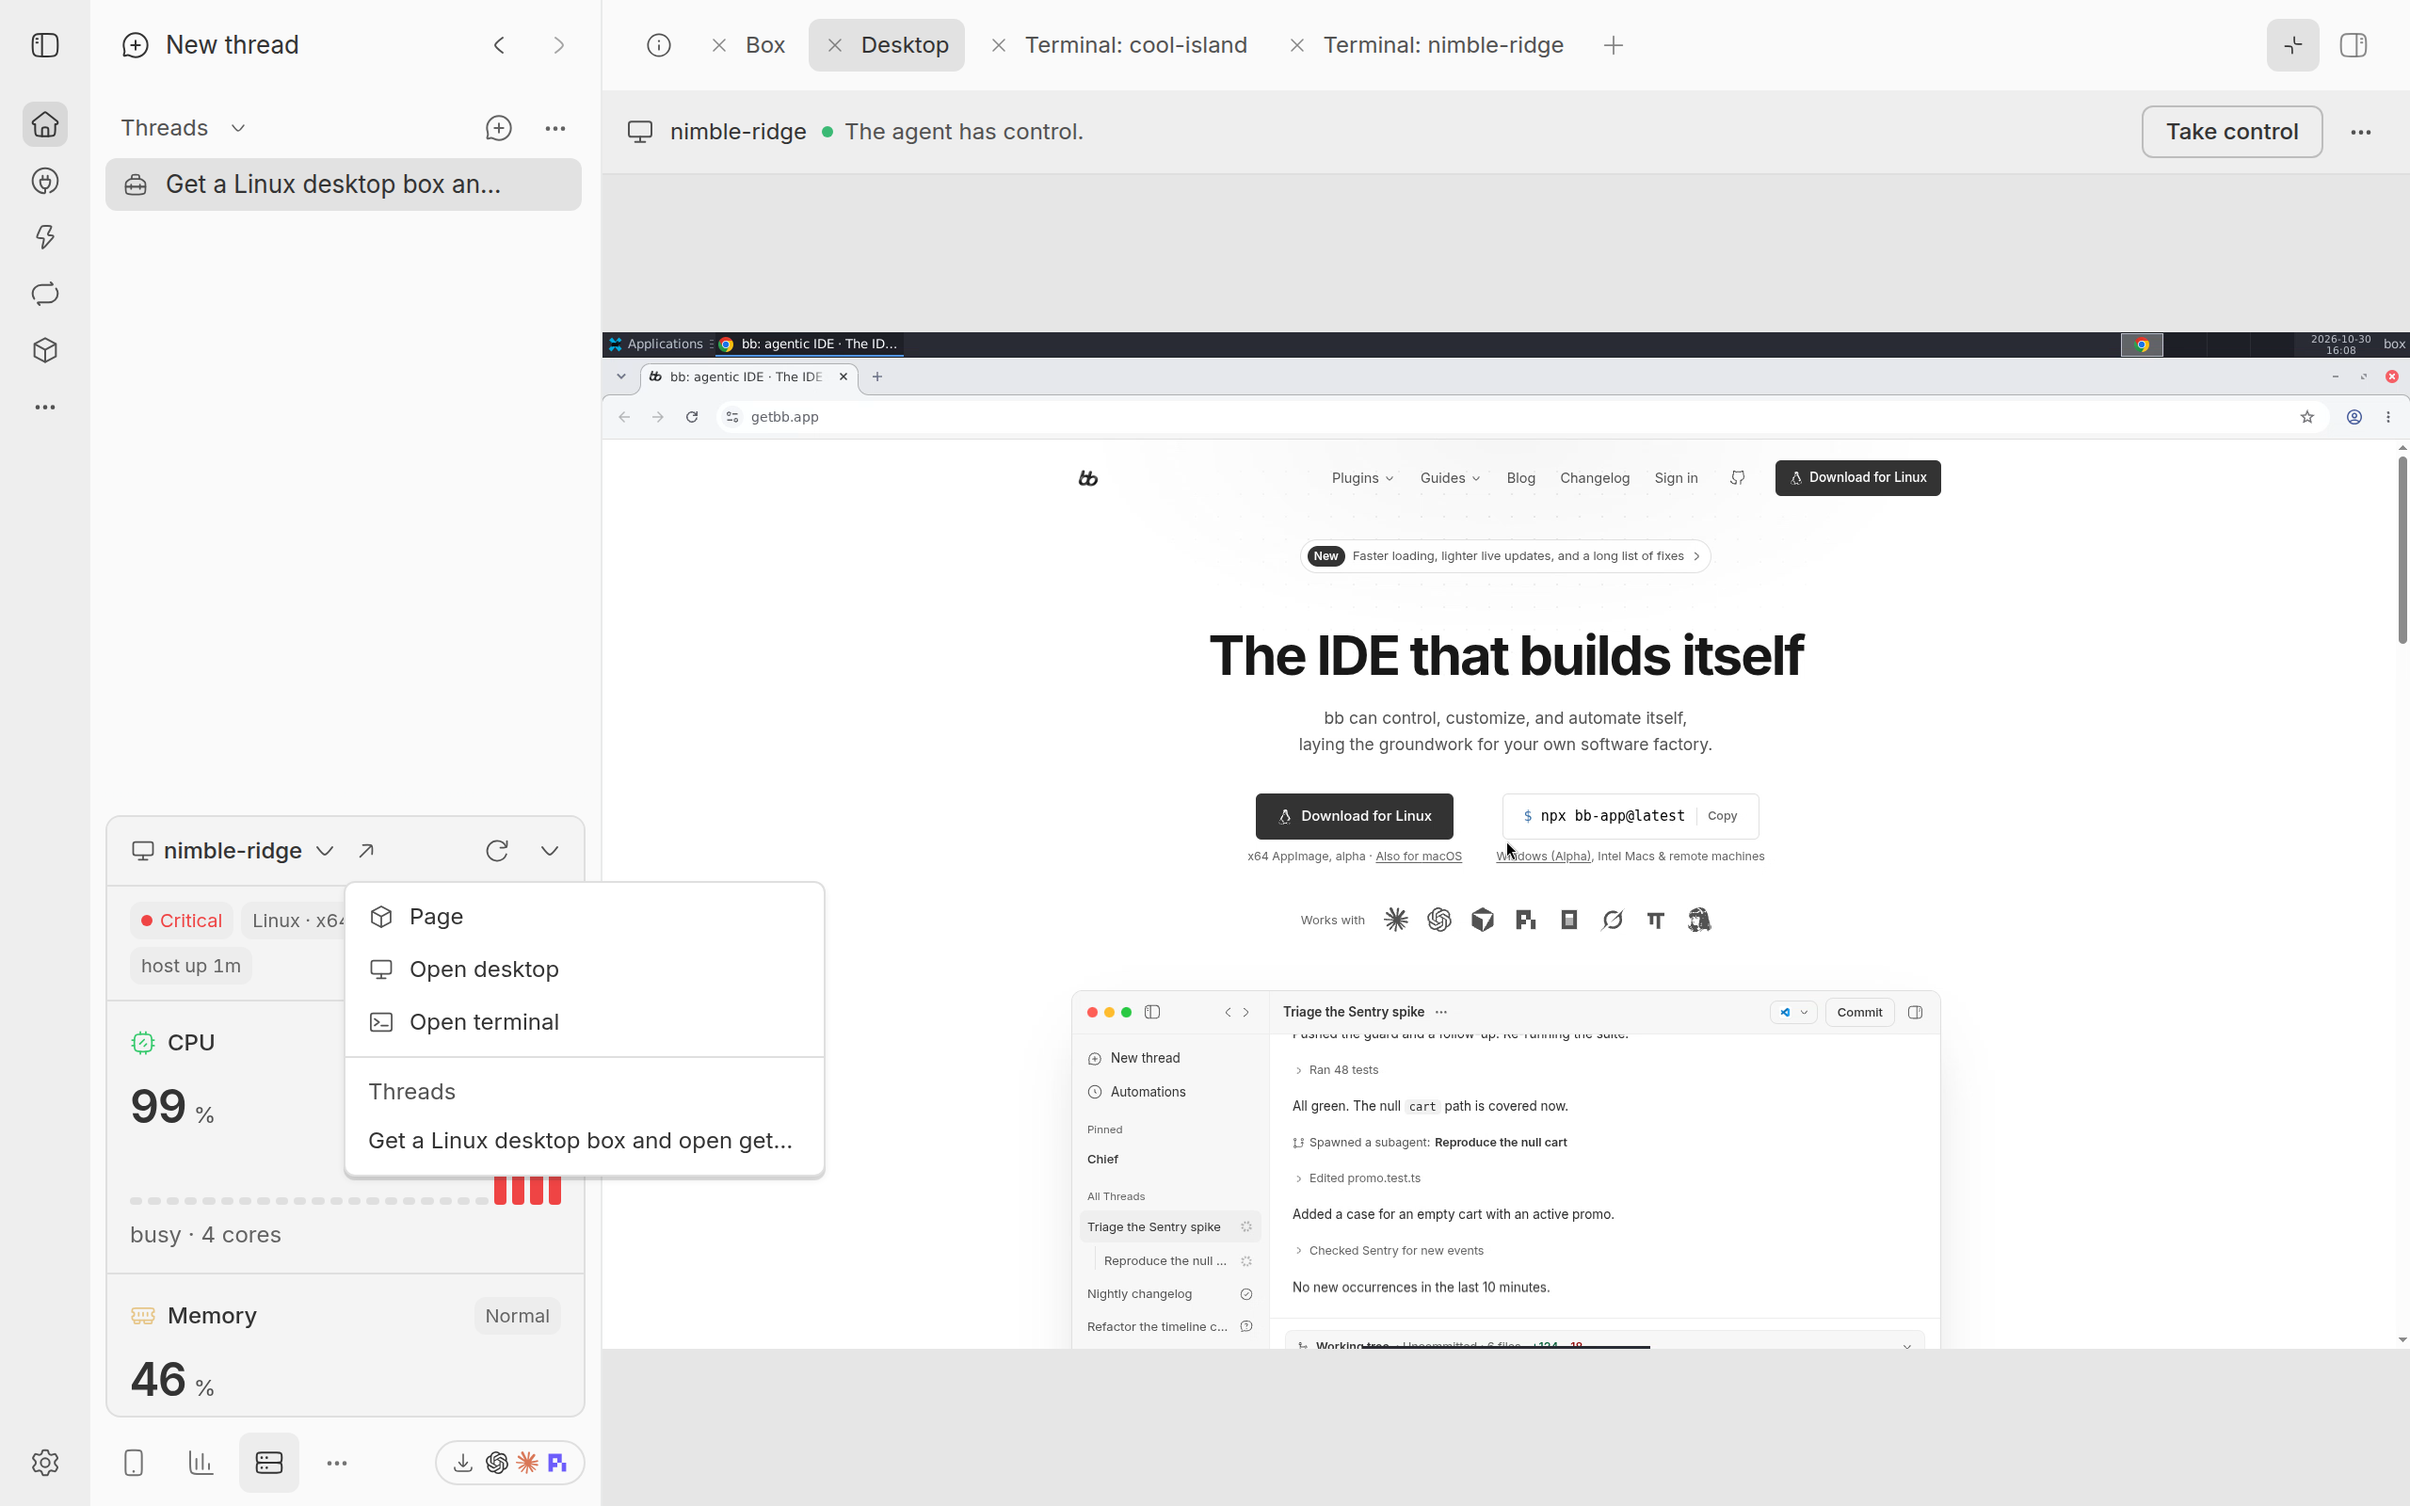
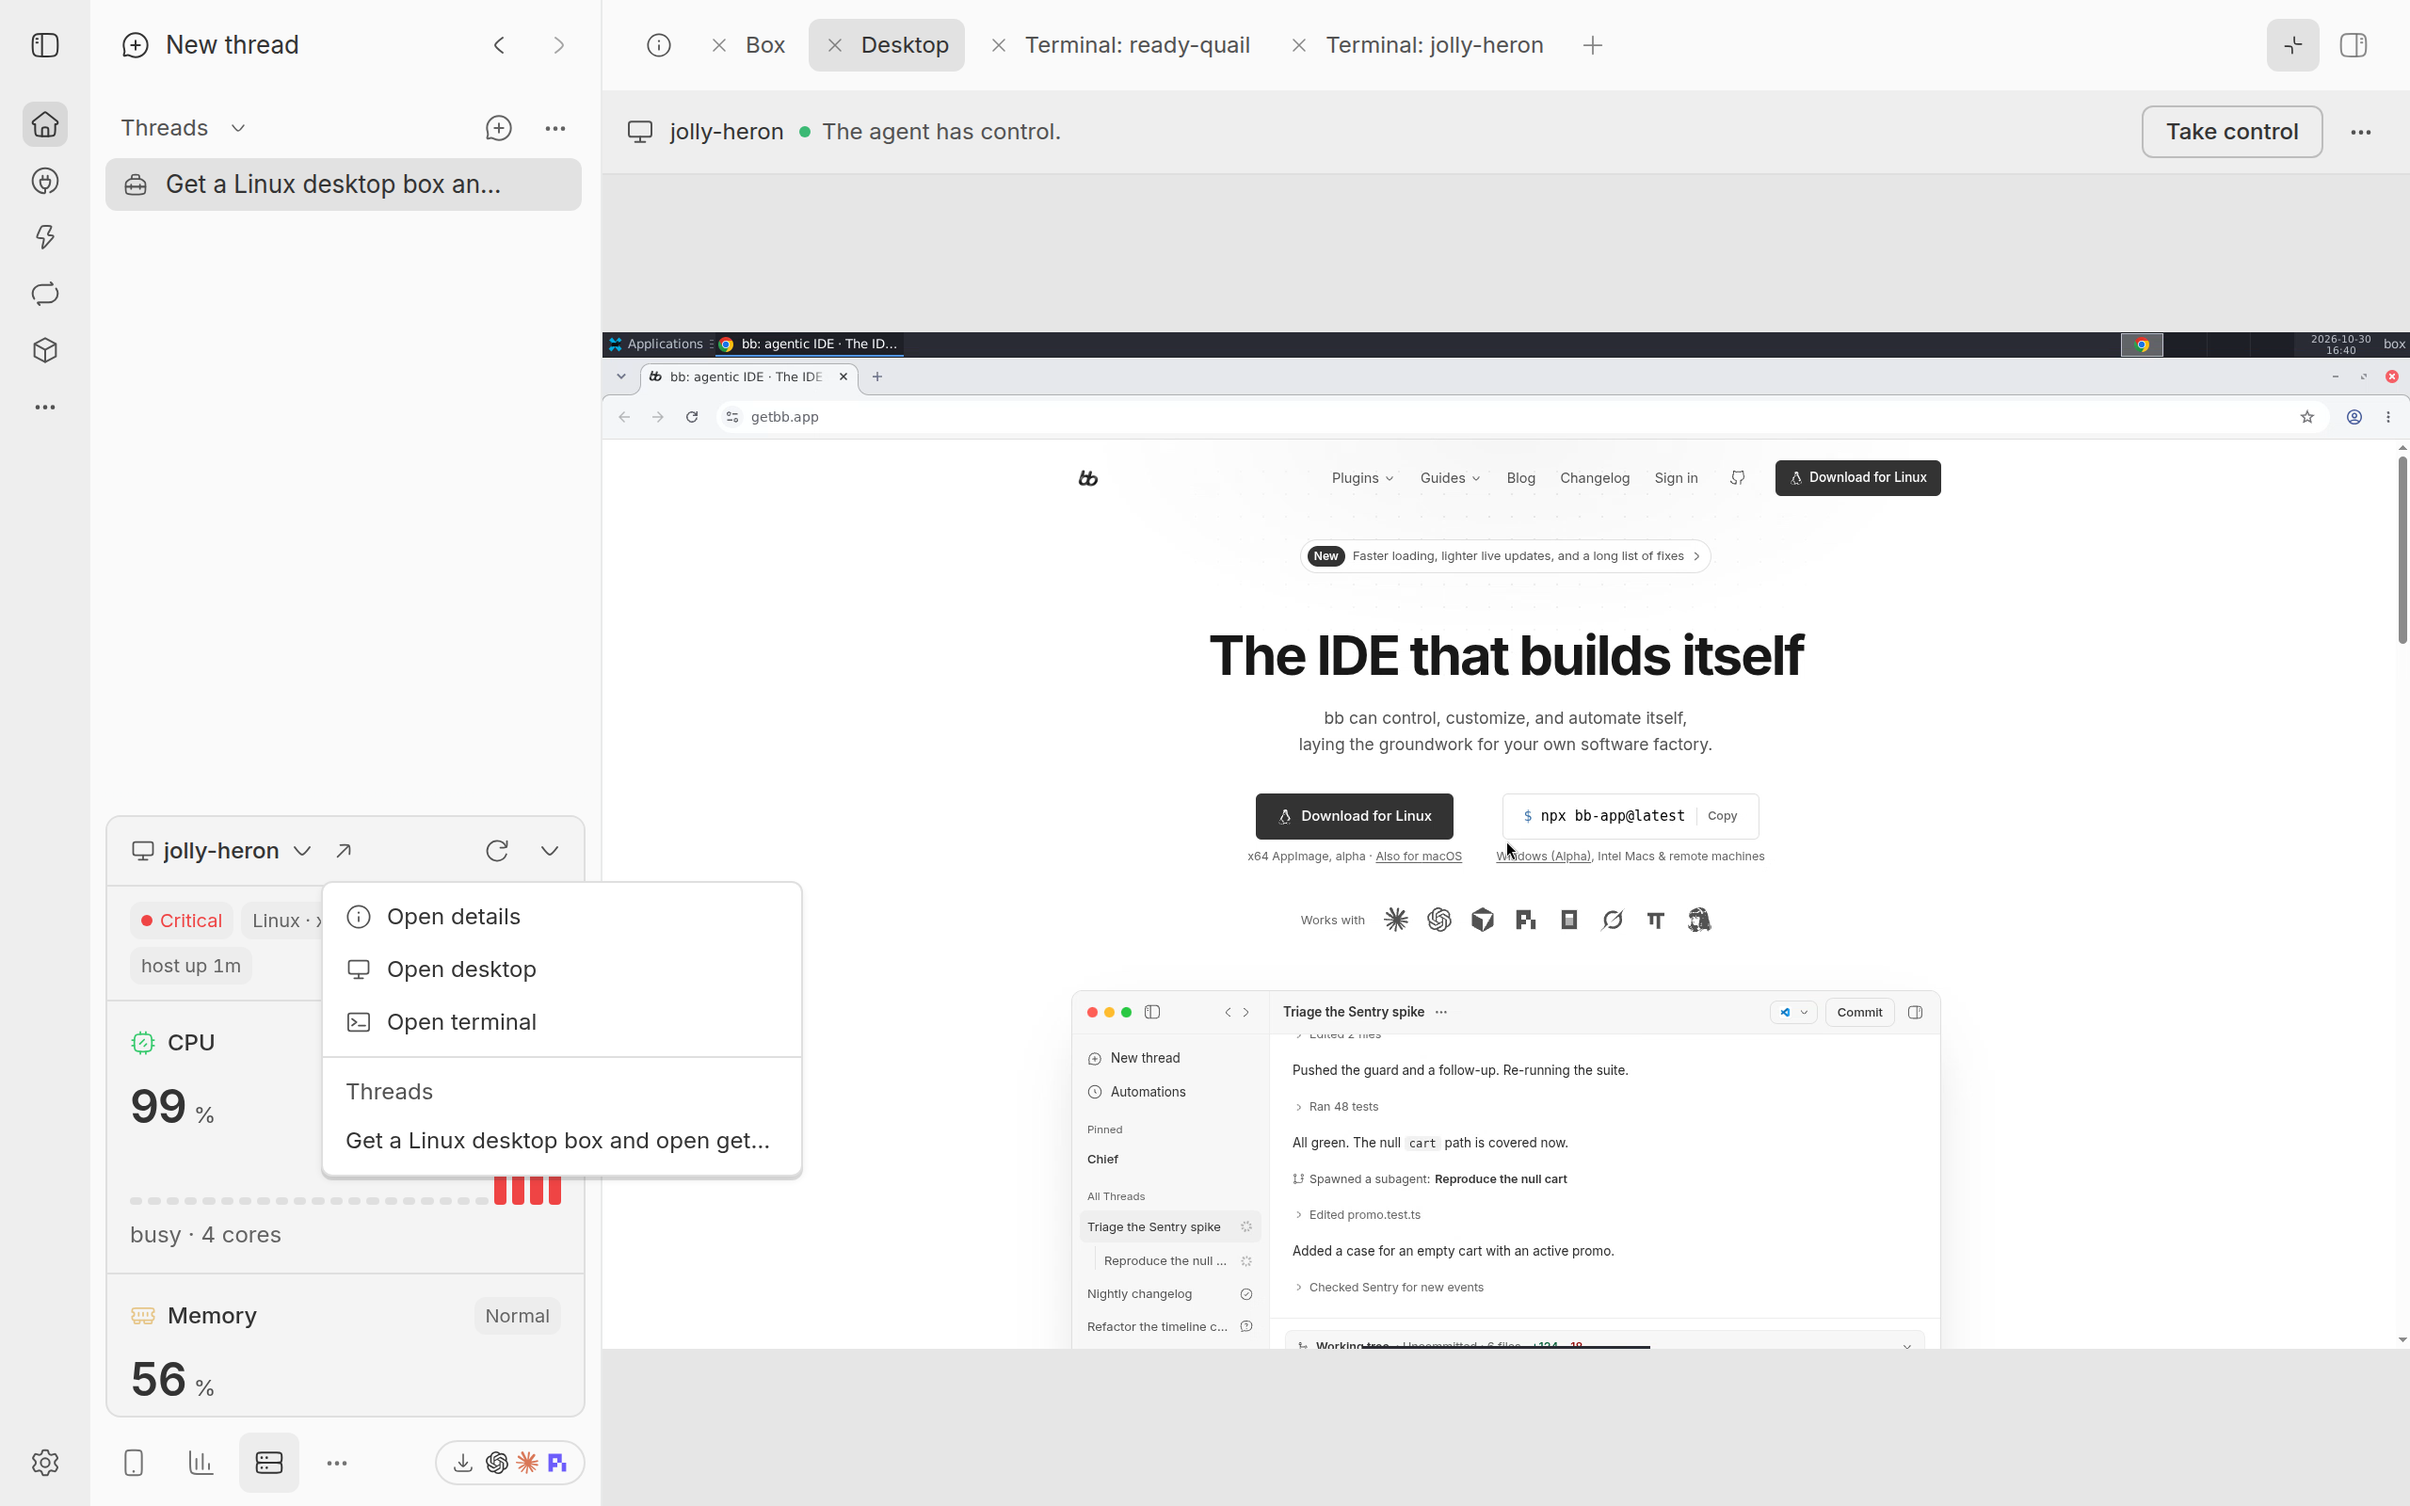
docs(guide): the Monitor taken again in dark and light, its Open menu starting with Open details

diff --git a/docs/guide/monitor.md b/docs/guide/monitor.md
@@ -2,7 +2,7 @@
 
 The Monitor shows how BB's server, your machines and every box are doing: CPU, memory, disk, network and the busiest processes, in BB's sidebar. It can also watch BB's server while nobody looks, and tell you when its CPU or memory stays high.
 
-![The Monitor in BB's sidebar, on a Linux desktop box under load, with the box's Open menu: Page, Open desktop, Open terminal and the thread that holds the box](../media/monitor.png)
+![The Monitor in BB's sidebar, on a Linux desktop box under load, with the box's Open menu: Open details, Open desktop, Open terminal and the thread that holds the box](../media/monitor.png)
 
 ## Opening it
 
